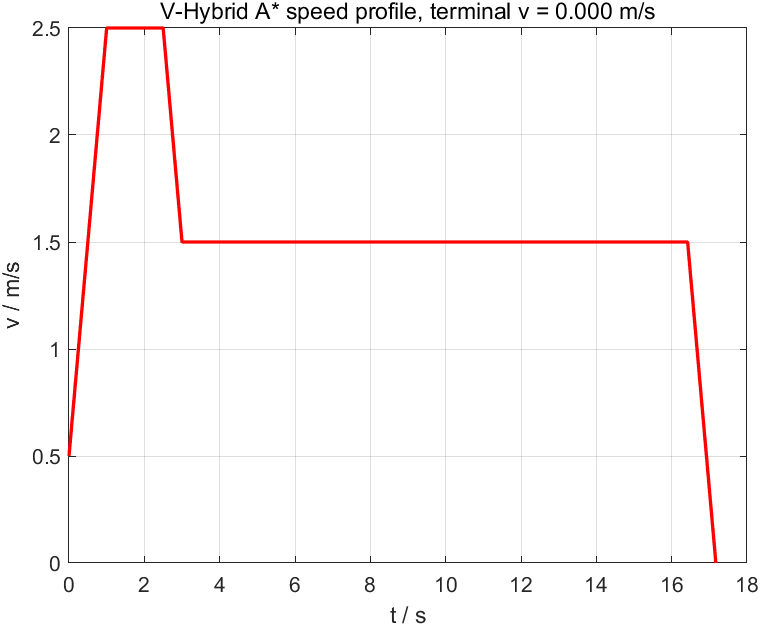
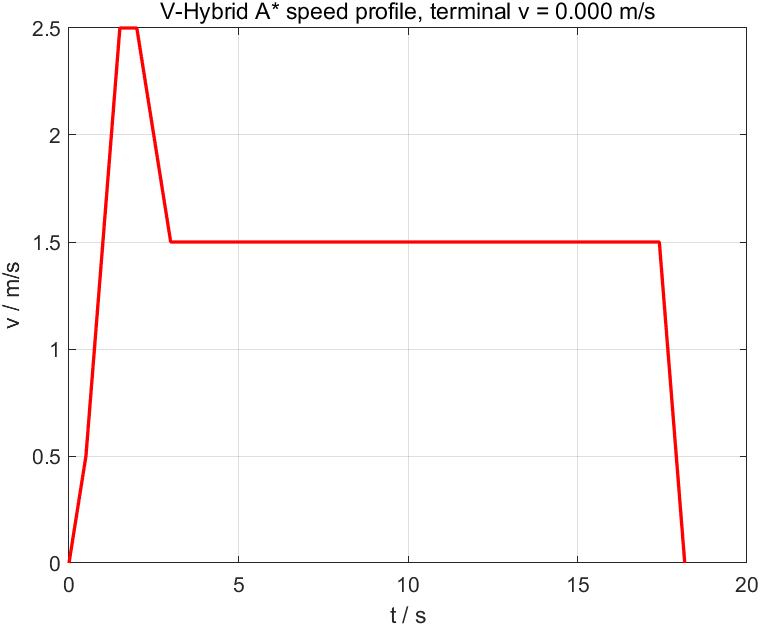
修改day4代码，初始速度为0

diff --git a/tests/test_vhybrid_core.m b/tests/test_vhybrid_core.m
@@ -42,13 +42,20 @@ classdef test_vhybrid_core < matlab.unittest.TestCase
             testCase.verifyFalse(closed.contains(node_b));
         end
 
-        function testExpansionSamplesNineControls(testCase)
-            parent = vhybrid_node([3,3,0,0.5,0],0,0,0,0,0,[6,6,12,2,0],1);
+        function testExpansionSamplesConfiguredControls(testCase)
+            % 零速父节点须采样所有配置控制，并能生成低速加速节点。
+            parent = vhybrid_node([3,3,0,0,0],0,0,0,0,0,[6,6,12,0,0],1);
             [children, statistics] = vhybrid_expand_node(parent, testCase.Map, ...
                 testCase.VehicleConfig, testCase.PlannerConfig, [24,5,0,0,0]);
-            testCase.verifyEqual(statistics.sampled, 9);
+            cfg = testCase.PlannerConfig.vhybrid;
+            expected_controls = numel(cfg.control_acceleration_samples_mps2) ...
+                * numel(cfg.control_steering_samples_rad);
+            testCase.verifyEqual(statistics.sampled, expected_controls);
             testCase.verifyGreaterThan(statistics.valid, 0);
             testCase.verifyGreaterThanOrEqual(numel(children), 3);
+            testCase.verifyTrue(any(abs([children.v]-0.5)<1e-12));
+            testCase.verifyTrue(any(abs([children.v]-1.0)<1e-12));
+            testCase.verifyGreaterThanOrEqual(min([children.v]), 0);
         end
 
         function testExpansionUsesDifferentTimeIndices(testCase)
@@ -188,6 +195,27 @@ classdef test_vhybrid_core < matlab.unittest.TestCase
             testCase.verifyLessThanOrEqual(path.final_speed_error_mps, 1e-8);
             testCase.verifyEqual(path.v(end), 0, 'AbsTol', 1e-8);
             testCase.verifyTrue(path.kinematic_validation.valid);
+        end
+
+        function testDemoStartsFromRestAndAcceleratesPhysically(testCase)
+            % 起点必须真实静止，首个移动状态须由正加速度和原运动学模型产生。
+            path = testCase.cachedDemo();
+            testCase.assertTrue(path.valid);
+            testCase.verifyEqual(testCase.PlannerConfig.vhybrid.initial_speed_mps, ...
+                0, 'AbsTol', 1e-12);
+            testCase.verifyEqual(path.v(1), 0, 'AbsTol', 1e-12);
+            testCase.verifyEqual(path.t(1), 0, 'AbsTol', 1e-12);
+            moving = find(path.travelled_distance > 1e-10, 1, 'first');
+            testCase.assertNotEmpty(moving);
+            testCase.assertGreaterThan(moving, 1);
+            testCase.verifyGreaterThan(path.acceleration(moving), 0);
+            testCase.verifyGreaterThan(path.v(moving), 0);
+            previous = [path.x(moving-1),path.y(moving-1),path.theta(moving-1), ...
+                path.v(moving-1),path.t(moving-1)];
+            actual = [path.x(moving),path.y(moving),path.theta(moving), ...
+                path.v(moving),path.t(moving)];
+            testCase.verifyEdge(previous,actual,path.acceleration(moving), ...
+                path.steering_angle(moving),path.travelled_distance(moving),testCase.Map);
         end
 
         function testDemoEveryEdgeMatchesVehicleDynamics(testCase)

diff --git a/tests/validate_day4_kinematics.m b/tests/validate_day4_kinematics.m
@@ -1,7 +1,7 @@
 function report = validate_day4_kinematics()
 %VALIDATE_DAY4_KINEMATICS 运行单元测试和三个真实场景，保存可复核的验证报告。
 % 输入：无，从本工程目录加载配置。输出：测试汇总、三车终点及重放误差。
-% 逻辑：先运行核心/运动学测试，再分别规划车辆1/2/3；只更新车辆2演示图。
+% 逻辑：先运行核心/运动学测试，再分别规划车辆1/2/3；更新默认车辆3演示图。
 project = fileparts(fileparts(mfilename('fullpath')));
 addpath(fullfile(project,'matlab','single_vehicle'));
 results = runtests({fullfile(project,'tests','test_vhybrid_core.m'), ...
@@ -10,16 +10,20 @@ report.tests = struct('total',numel(results),'passed',nnz([results.Passed]), ...
     'failed',nnz([results.Failed]),'incomplete',nnz([results.Incomplete]));
 items = cell(3,1);
 for index = 1:3
-    path = run_vhybrid_astar_demo(index,index==2);
+    path = run_vhybrid_astar_demo(index,index==3);
+    % 搜索失败可能返回空路径；仍写入失败报告，避免索引异常掩盖错误码。
+    initial_speed = NaN;
+    if ~isempty(path.v), initial_speed = path.v(1); end
     items{index} = struct('vehicle_index',index,'valid',path.valid, ...
         'error_code',double(path.error_code),'path_points',numel(path.x), ...
         'expanded_nodes',path.search_statistics.expanded_nodes, ...
+        'initial_speed_mps',initial_speed, ...
         'position_error_m',path.final_position_error_m, ...
         'heading_error_deg',rad2deg(path.final_heading_error_rad), ...
         'speed_error_mps',path.final_speed_error_mps, ...
         'kinematic_validation',path.kinematic_validation);
-    fprintf('vehicle%d valid=%d error=%d position=%.3g heading_deg=%.3g speed=%.3g\n', ...
-        index,path.valid,path.error_code,path.final_position_error_m, ...
+    fprintf('vehicle%d valid=%d error=%d initial_speed=%.3g position=%.3g heading_deg=%.3g speed=%.3g\n', ...
+        index,path.valid,path.error_code,initial_speed,path.final_position_error_m, ...
         rad2deg(path.final_heading_error_rad),path.final_speed_error_mps);
 end
 report.vehicles = vertcat(items{:});
@@ -31,4 +35,5 @@ fprintf(fid,'%s',jsonencode(report,'PrettyPrint',true));
 fprintf('Tests: %d/%d passed. Report: %s\n',report.tests.passed,report.tests.total,output);
 assert(all([results.Passed]),'Day4/运动学单元测试未全部通过。');
 assert(all([report.vehicles.valid]),'至少一辆车未通过终点/运动学验收。');
+assert(all([report.vehicles.initial_speed_mps]==0),'至少一辆车没有从静止状态起步。');
 end

diff --git a/matlab/single_vehicle/run_vhybrid_astar_demo.m b/matlab/single_vehicle/run_vhybrid_astar_demo.m
@@ -1,7 +1,7 @@
 function path = run_vhybrid_astar_demo(vehicle_index, save_outputs)
 %RUN_VHYBRID_ASTAR_DEMO 运行 Day 4 单车 V-Hybrid A* 原型。
 %
-% 输入：vehicle_index 为场景车辆序号（默认 2）；save_outputs 是否保存图（默认 true）。
+% 输入：vehicle_index 为场景车辆序号（默认 3）；save_outputs 是否保存图（默认 true）。
 % 输出：path.x/y/theta/v/t/direction、valid、error_code 和搜索统计。
 %
 % 算法逻辑：
@@ -21,7 +21,8 @@ scenario = jsondecode(fileread(fullfile(config_dir, 'scenario_001.json')));
 map = summon_map(map_config);
 vehicle = scenario.vehicles(vehicle_index);
 start_state = [vehicle.start_pose.x_m, vehicle.start_pose.y_m, ...
-    vehicle.start_pose.yaw_rad, 0.5, 0];
+    vehicle.start_pose.yaw_rad, planner_config.vhybrid.initial_speed_mps, 0];
+% 起步速度集中配置为0；后续速度和位移均通过运动学模型受限加速生成。
 goal_state = [vehicle.summon_goal.x_m, vehicle.summon_goal.y_m, ...
     vehicle.summon_goal.yaw_rad, 0, 0];
 

diff --git a/docs/day4_vhybrid_astar.md b/docs/day4_vhybrid_astar.md
@@ -28,11 +28,22 @@ Day 3 模型使用 `v_next = v + a*dt`、`ds = (v+v_next)*dt/2` 和 `curvature =
 
 速度、加速度、转角均按配置限制。边界上的机器精度误差允许以浮点容差处理，但超出物理约束的控制仍拒绝；不能通过大幅截断速度来隐藏不一致。
 
+Day 4 的 `vhybrid.initial_speed_mps=0.0`，所有场景车辆从静止状态起步。
+起点 `path.v(1)=0`、`path.t(1)=0`，首个移动状态必须通过正加速度
+调用 `summon_vehicle_dynamic` 生成；不能直接给车辆一个非零起步速度。
+终点仍按 `terminal_speed_mps=0` 制动停车。
+
+零速起步后，原来的 `[-2,0,2] m/s²` 加速度与 `0.5 s` 步长只会生成整数速度，
+无法搜索 `1.5 m/s` 参考速度附近的节点。加速度采样增加为
+`[-2,-1,0,1,2] m/s²`，提供 `0.5 m/s` 的速度增量和低速转向节点。
+终点连接尝试范围扩大为 `16 m`，在有足够转弯空间时尝试合法连接。
+速度、加速度和转角物理边界以及搜索时间上限保持原配置。
+
 ## 4. 终点航向突变根因与修复
 
 旧连接对位置、航向和速度分别插值，转角记录为零时航向仍然变化；最后又强制写入目标位置、航向与速度。数值上的零航向误差不能证明该路径能够执行。典型错误段移动约 `0.368 m`，速度时间积分仅允许约 `0.0187 m`。
 
-现在枚举六种真实 Dubins 曲线：`LSL/RSR/LSR/RSL/RLR/LRL`。最小转弯半径为 `L/tan(delta_max)`，圆弧由左右极限转角实现，直线段使用零转角。连接范围配置为 12 m，允许搜索节点在仍有空间完成转弯时连接目标。
+现在枚举六种真实 Dubins 曲线：`LSL/RSR/LSR/RSL/RLR/LRL`。最小转弯半径为 `L/tan(delta_max)`，圆弧由左右极限转角实现，直线段使用零转角。连接范围配置为 16 m，允许搜索节点在仍有空间完成转弯时连接目标。
 
 连接的加速、巡航、制动时间由剩余弧长和速度边界确定，每一个输出状态均由 `summon_vehicle_dynamic` 推进，并检查静态碰撞。减速到目标速度后才能成功返回，当前场景目标速度为 `0 m/s`。不对 `x/y/theta/v` 进行独立插值，也不在最后一个节点直接覆盖目标姿态。
 
@@ -46,13 +57,15 @@ Day 3 模型使用 `v_next = v + a*dt`、`ds = (v+v_next)*dt/2` 和 `curvature =
 6. 检查最终位置、航向和速度，再逐边用记录的加速度、转角与时间间隔重放完整路径，比较 `x/y/theta/v/t`。
 7. 搜索上限或验收失败时返回明确错误码，不能将失败轨迹标记为有效。
 
-错误码：`0` 成功，`2` 起点碰撞，`3` 终点碰撞，`4` Open 为空，`5` 最大节点数，`6` 最大搜索时间，`7` 终点姿态或运动学验收失败。
+错误码：`0` 成功，`2` 起点碰撞，`3` 终点碰撞，`4` Open 为空，`5` 最大节点数，`6` 最大搜索时间，`7` 终点姿态或速度验收失败，`8` 运动学验收失败。
 
 统一输出包括 `path.x/y/theta/v/t/direction`、控制信息、`valid/error_code/search_statistics`、`goal_pose` 以及最终位置、航向、速度误差与运动学重放结果。
 
 ## 6. 图像与运行
 
-运行 `run_vhybrid_astar_demo()` 默认使用车辆 2；也可显式选择车辆。主图显示请求航向、实际航向和沿途最多 9 个车身航向箭头，蓝线末端切线应与目标朝向一致。
+运行 `run_vhybrid_astar_demo()` 当前默认使用车辆 3；也可显式选择车辆，
+例如 `run_vhybrid_astar_demo(2)`。主图显示请求航向、实际航向和沿途最多
+9 个车身航向箭头，蓝线末端切线应与目标朝向一致。
 
 | 输出 | 内容 |
 |---|---|
@@ -65,8 +78,19 @@ Day 3 模型使用 `v_next = v + a*dt`、`ds = (v+v_next)*dt/2` 和 `curvature =
 
 ## 7. 测试、问题与下一步
 
-恢复前最新版本的 MATLAB 验证为 24/24 通过，三辆场景车辆均成功规划。车辆 2 到达 `(15,9)`，终端航向 `180 deg`、速度 `0 m/s`；全路径重放位置误差约 `5e-15 m`。恢复后的实际测试结果以本次重新运行输出为准。
+2026-10-04 零速起步版本已使用 MATLAB R2023a 实测，25/25 项测试通过
+（V-Hybrid 核心 17 项、Day 3 运动学 8 项）。三辆场景车辆均从 `0 m/s`
+起步，按配置约束加减速，到达各自目标并以 `0 m/s` 停车；路径点数依次为
+226、165、287，碰撞数和运动学约束失败数均为 0。车辆 2 到达 `(15,9)`，
+终端航向 `180 deg`；三车最大逐边重放位置误差约 `1.1e-14 m`。
+
+本次修改文件为 `config/planner_config.json`、`run_vhybrid_astar_demo.m`、
+`tests/test_vhybrid_core.m`、`tests/validate_day4_kinematics.m` 和本文档。
+四个 Day 4 图像/验证输出同步更新；主轨迹图和速度图使用默认车辆 3，
+独立搜索四格图使用车辆 2。Day 1/2/3 算法与原始 APA 模型未修改。
 
 测试覆盖节点字段、五维键、Open 更新、参考速度代价、静态碰撞、Dubins 连接、终点停车、禁止零位移航向变化以及逐边运动学一致性。
+新增零速起步回归，检查实际初速、起始时刻及首个移动状态的正加速度和
+运动学重放；三车验证报告保存各车 `initial_speed_mps`。
 
 当前没有施加 jerk 或转角变化率约束，圆弧/直线切换时控制量可能分段变化，但车辆位置、航向和速度由同一运动学模型连续生成。Day 5 建议继续实现独立 X-Y-T 占用模块，不提前接入动态多车或轨迹优化。
